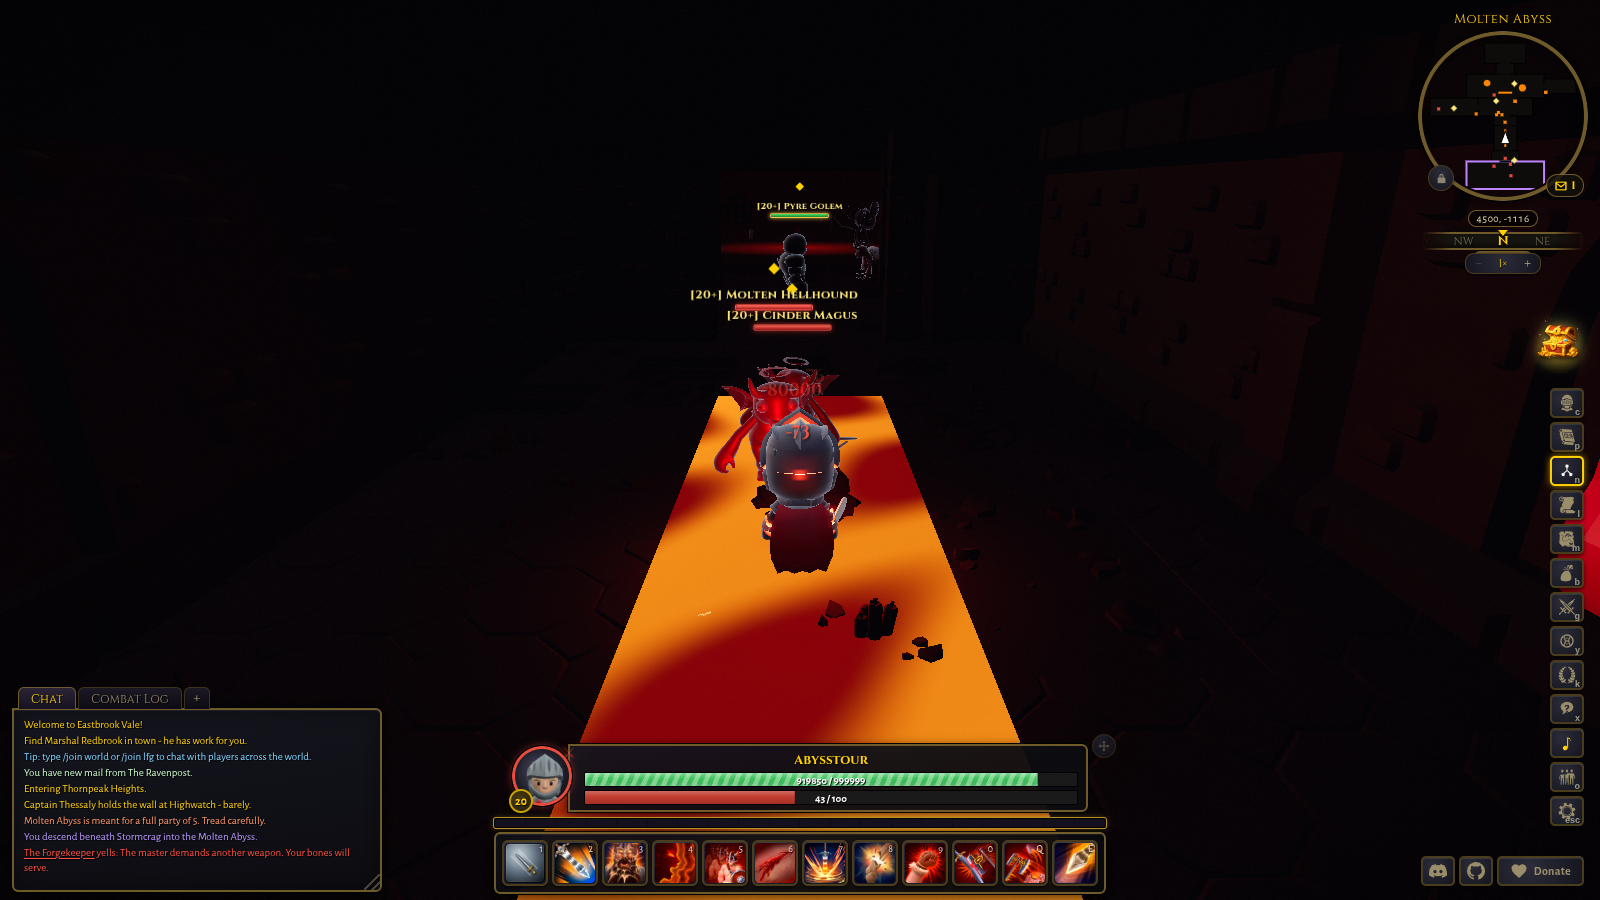
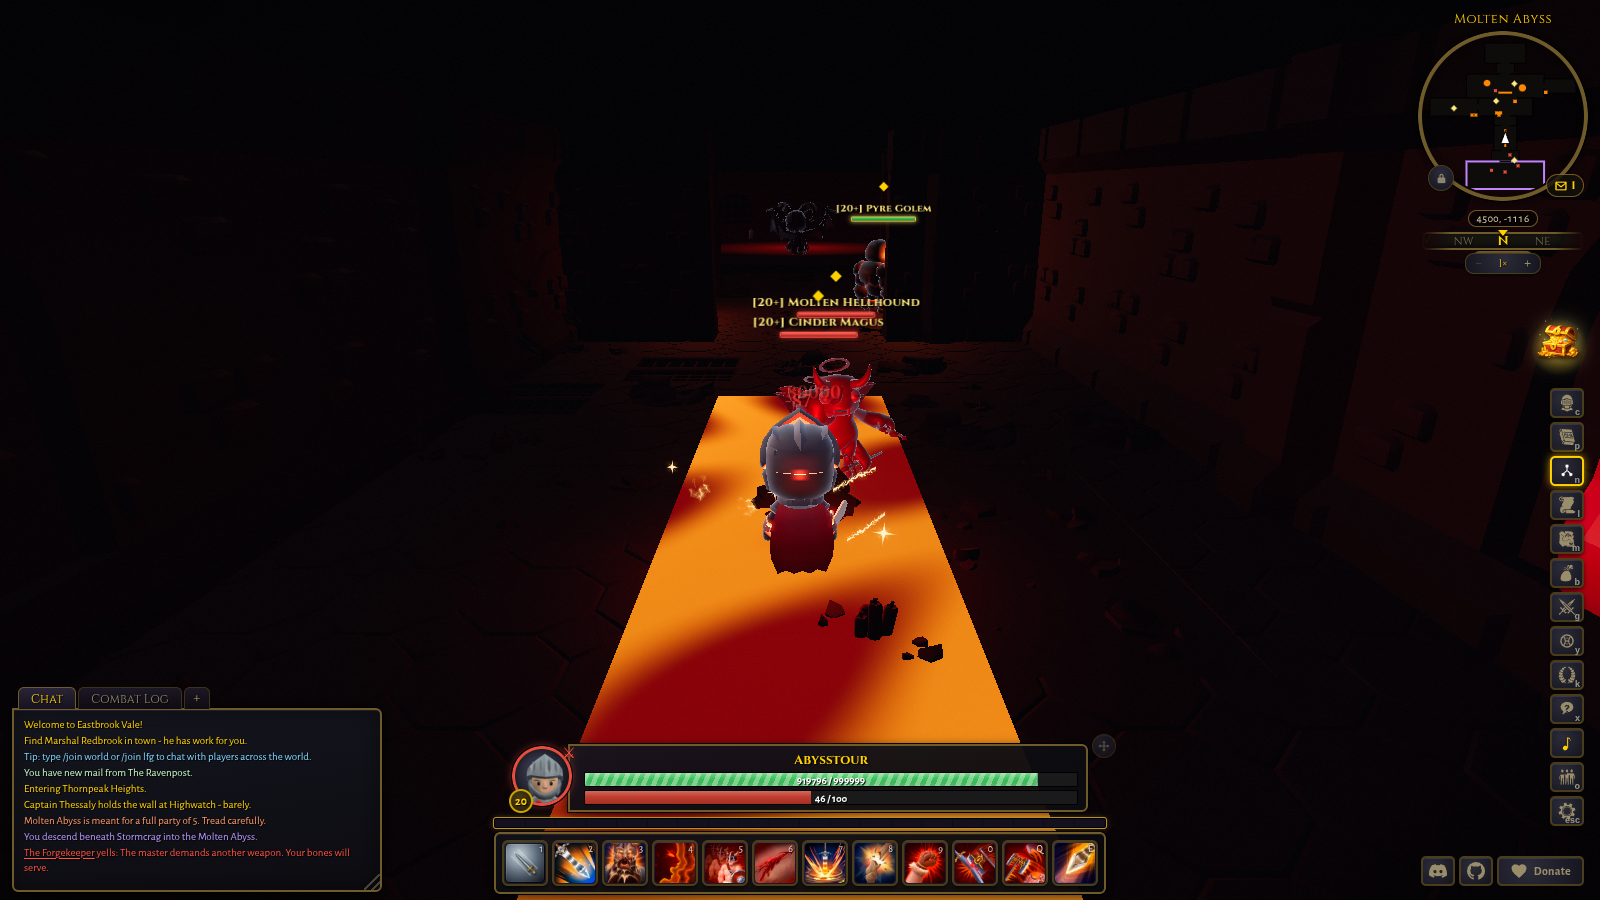
fix(dungeons): ground the entrance at the cliff base and light the descent
The door at (155,760) sat on the steep Stormcrag rock face (terrain h ~18
with hard slope: x >= 152 is already the cliff), burying the archway in
the mountainside; it now stands at (148,756) on the gentle meadow at the
cliff's foot (h ~9.8), reachable on foot from the Thornpeak path.

The interior read near-black away from lava. Three changes, all on the
established contracts: the braziers now carry a real torch light on the
pillar-torch contract (initial 10, baseIntensity 46 on high, short throw
on low, pushed to the renderer's ranked fireLights budget); the lava
point lights join that same budget instead of bypassing it (an
unbudgeted light inflates numPointLights and recompiles lit materials);
and the dressing adds a dim warm ember hemisphere (0.5, high tier only:
low never applies the underground dimming) so no room reads pure black.
Twelve braziers land in the previously unlit rooms (Chainscar Descent,
Lost Armory, Gladiator Pit, Maw Approach) and eight frame the boss arena
entrance and altar, via layout decor so collision, minimap, and visuals
stay one source of truth. Committed screenshots refreshed; the tour
script frames the relocated door from beside the archway.

Changed region(s): [[0.4062, 0.2178, 0.625, 0.5911], [0.625, 0.2489, 0.6562, 0.3111], [0.5, 0.84, 0.5312, 0.9022]]

diff --git a/src/render/infernal_abyss_dressing.ts b/src/render/infernal_abyss_dressing.ts
@@ -80,7 +80,28 @@ function lavaMaterial(): THREE.ShaderMaterial {
   return lavaMat;
 }
 
-function placeLava(group: THREE.Group, decor: AuthoredDecor, lowGfx: boolean): void {
+// Brazier light on the pillar-torch contract (see dungeon.ts addPillarTorch):
+// initial intensity 10, budget-managed via userData.baseIntensity on high tier,
+// short throw on low. The braziers are the interior's primary light source; the
+// lava lights below are the bonus ember wash.
+const BRAZIER_LIGHT_COLOR = 0xff7a2a;
+const BRAZIER_LIGHT_Y = 2.8;
+const BRAZIER_LIGHT_DISTANCE = 34;
+const BRAZIER_LIGHT_DISTANCE_LOW = 22;
+const BRAZIER_LIGHT_INTENSITY_HIGH = 46;
+// A dim warm ember ambient so no room reads pure black away from a light
+// source (the global underground hemi is a cold 0.22). High tier only: low
+// gfx never applies the underground dimming, so it is already readable.
+const EMBER_HEMI_SKY = 0x8a3a1e;
+const EMBER_HEMI_GROUND = 0x140505;
+const EMBER_HEMI_INTENSITY = 0.5;
+
+function placeLava(
+  group: THREE.Group,
+  decor: AuthoredDecor,
+  lowGfx: boolean,
+  fireLights: THREE.PointLight[],
+): void {
   const scale = decor.scale ?? 1;
   let geometry: THREE.BufferGeometry;
   if (decor.key === 'lava_pool') {
@@ -101,10 +122,18 @@ function placeLava(group: THREE.Group, decor: AuthoredDecor, lowGfx: boolean): v
     light.position.set(decor.x, 1.1, decor.z);
     light.userData.baseIntensity = light.intensity;
     group.add(light);
+    // Join the renderer's ranked point-light budget: an unbudgeted light
+    // inflates numPointLights and recompiles every lit material as it streams.
+    fireLights.push(light);
   }
 }
 
-function placeProp(group: THREE.Group, decor: AuthoredDecor, lowGfx: boolean): void {
+function placeProp(
+  group: THREE.Group,
+  decor: AuthoredDecor,
+  lowGfx: boolean,
+  fireLights: THREE.PointLight[],
+): void {
   const source = sources.get(decor.key);
   if (!source) return;
   const model = source.clone(true);
@@ -117,18 +146,39 @@ function placeProp(group: THREE.Group, decor: AuthoredDecor, lowGfx: boolean): v
     node.receiveShadow = true;
   });
   group.add(model);
+  if (decor.key === 'lava_brazier') {
+    const light = new THREE.PointLight(
+      BRAZIER_LIGHT_COLOR,
+      10,
+      lowGfx ? BRAZIER_LIGHT_DISTANCE_LOW : BRAZIER_LIGHT_DISTANCE,
+      2,
+    );
+    if (!lowGfx) light.userData.baseIntensity = BRAZIER_LIGHT_INTENSITY_HIGH;
+    light.position.set(decor.x, BRAZIER_LIGHT_Y, decor.z);
+    group.add(light);
+    fireLights.push(light);
+  }
 }
 
 export function placeInfernalAbyssDressing(
   group: THREE.Group,
   layout: DungeonLayout,
   lowGfx: boolean,
+  fireLights: THREE.PointLight[],
 ): void {
   for (const decor of layout.decor ?? []) {
     if (decor.key === 'lava_pool' || decor.key === 'lava_fissure') {
-      placeLava(group, decor, lowGfx);
+      placeLava(group, decor, lowGfx, fireLights);
     } else {
-      placeProp(group, decor, lowGfx);
+      placeProp(group, decor, lowGfx, fireLights);
     }
+  }
+  if (!lowGfx) {
+    const ember = new THREE.HemisphereLight(
+      EMBER_HEMI_SKY,
+      EMBER_HEMI_GROUND,
+      EMBER_HEMI_INTENSITY,
+    );
+    group.add(ember);
   }
 }

diff --git a/src/sim/dungeon_layout.ts b/src/sim/dungeon_layout.ts
@@ -218,21 +218,37 @@ export const INFERNAL_ABYSS_LAYOUT: DungeonLayout = {
   decor: [
     { key: 'lava_brazier', x: -12, z: -13, yaw: 0, r: 0.9 },
     { key: 'lava_brazier', x: 12, z: -13, yaw: Math.PI, r: 0.9 },
+    { key: 'lava_brazier', x: -6, z: 14, yaw: 0, r: 0.9 },
+    { key: 'lava_brazier', x: 6, z: 22, yaw: Math.PI, r: 0.9 },
     { key: 'chained_demon_obelisk', x: -25, z: 37, yaw: 0.2, r: 1.4 },
     { key: 'chained_demon_obelisk', x: 25, z: 57, yaw: -0.2, r: 1.4 },
     { key: 'lava_pool', x: -15, z: 50, yaw: 0.1, scale: 1.5 },
     { key: 'lava_pool', x: 16, z: 42, yaw: -0.2, scale: 1.35 },
     { key: 'lava_fissure', x: 0, z: 58, yaw: Math.PI / 2, scale: 1.7 },
+    { key: 'lava_brazier', x: -58, z: 47, yaw: Math.PI / 2, r: 0.9 },
+    { key: 'lava_brazier', x: -38, z: 55, yaw: -Math.PI / 2, r: 0.9 },
     { key: 'lost_armory_weapon_rack', x: -54, z: 42, yaw: Math.PI / 2, r: 1.2 },
     { key: 'lost_armory_weapon_rack', x: -54, z: 52, yaw: Math.PI / 2, r: 1.2 },
     { key: 'infernal_forge_anvil', x: -11, z: 82, yaw: 0.15, r: 2.2 },
     { key: 'lava_brazier', x: 11, z: 76, yaw: 0, r: 0.9 },
     { key: 'lava_brazier', x: 11, z: 90, yaw: Math.PI, r: 0.9 },
+    { key: 'lava_brazier', x: 30, z: 92, yaw: 0, r: 0.9 },
+    { key: 'lava_brazier', x: 60, z: 72, yaw: Math.PI, r: 0.9 },
     { key: 'chained_demon_obelisk', x: 37, z: 73, yaw: 0, r: 1.4 },
     { key: 'chained_demon_obelisk', x: 58, z: 91, yaw: Math.PI, r: 1.4 },
+    { key: 'lava_brazier', x: -7, z: 102, yaw: 0, r: 0.9 },
+    { key: 'lava_brazier', x: 7, z: 108, yaw: Math.PI, r: 0.9 },
     { key: 'lava_fissure', x: 0, z: 134, yaw: 0, scale: 2.2 },
     { key: 'lava_brazier', x: -5, z: 161, yaw: Math.PI / 2, r: 0.9 },
     { key: 'lava_brazier', x: 5, z: 161, yaw: -Math.PI / 2, r: 0.9 },
+    { key: 'lava_brazier', x: -29, z: 184, yaw: 0, r: 0.9 },
+    { key: 'lava_brazier', x: 29, z: 184, yaw: Math.PI, r: 0.9 },
+    { key: 'lava_brazier', x: -29, z: 210, yaw: 0, r: 0.9 },
+    { key: 'lava_brazier', x: 29, z: 210, yaw: Math.PI, r: 0.9 },
+    { key: 'lava_brazier', x: -8, z: 177, yaw: 0, r: 0.9 },
+    { key: 'lava_brazier', x: 8, z: 177, yaw: Math.PI, r: 0.9 },
+    { key: 'lava_brazier', x: -8, z: 213, yaw: 0, r: 0.9 },
+    { key: 'lava_brazier', x: 8, z: 213, yaw: Math.PI, r: 0.9 },
     { key: 'chained_demon_obelisk', x: -24, z: 184, yaw: 0.25, r: 1.4 },
     { key: 'chained_demon_obelisk', x: 24, z: 184, yaw: -0.25, r: 1.4 },
     { key: 'chained_demon_obelisk', x: -24, z: 210, yaw: Math.PI - 0.25, r: 1.4 },

diff --git a/src/render/dungeon.ts b/src/render/dungeon.ts
@@ -719,7 +719,7 @@ export class DungeonInteriors {
     this.placeDais(group, p, layout, variant);
     this.placeAisleClutter(p, layout, variant);
     if (variant !== 'infernal_abyss') this.placeWallDressing(p, layout, variant, arenaWalls);
-    else placeInfernalAbyssDressing(group, layout, this.lowGfx);
+    else placeInfernalAbyssDressing(group, layout, this.lowGfx, this.fireLights);
     if (variant === 'temple') {
       this.placeFloodwater(group, layout);
       this.placeAquaticDressing(group, layout);

diff --git a/src/sim/content/infernal_abyss.ts b/src/sim/content/infernal_abyss.ts
@@ -591,7 +591,9 @@ export const INFERNAL_ABYSS_DUNGEON_DEFS: Record<string, DungeonDef> = {
     id: 'infernal_abyss',
     name: 'Molten Abyss',
     index: 6,
-    doorPos: { x: 155, z: 760 },
+    // At the FOOT of the Stormcrag cliff on gentle ground (h ~9.8): x >= 152
+    // is already the steep rock face and buries the door in the mountainside.
+    doorPos: { x: 148, z: 756 },
     entry: { x: 0, z: -10 },
     exitOffset: { x: 0, z: -14 },
     spawns: INFERNAL_ABYSS_SPAWNS,
